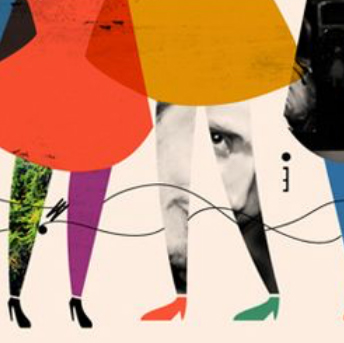
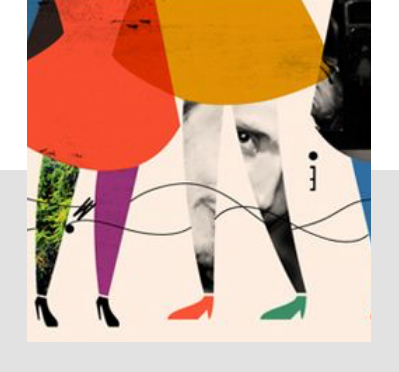
ling post images with shadow and directions fixed;

diff --git a/linguistic_serv-2.html b/linguistic_serv-2.html
@@ -68,69 +68,77 @@
 				<article class="post">
 					<header class="major">
 						<div class="slogan ling-slogan">
-							<h1><span style="font-weight:bold;display:inline-block;">&ldquo;</span>Simplicity is the ultimate<br />
-							Sophistication <span style="font-weight:bold;">&rdquo;</span></h1>
+							<h1>
+								<span style="font-weight:bold;display:inline-block;">&ldquo;</span>Simplicity is the ultimate<br/>
+								Sophistication
+								<span style="font-weight:bold;">&rdquo;</span>
+							</h1>
 							<p>Leonardo Da Vinci</p>
 						</div>
 						<p>Lorem ipsum dolor sit amet, consectetur adipiscing elit. Vestibulum id tortor ligula. Morbi quis augue ornare, mollis sapien ac, iaculis mi. Fusce in ligula nec est laoreet auctor sit amet quis massa. Quisque sed fermentum sapien, sit amet
-							ultrices felis. Nullam semper, metus eget lobortis dapibus, nulla nisl congue erat, at efficitur eni- m lorem eu diam. Vivamus id eros augue. Praesent auctor eget enim sit amet iaculis. Nunc sem eros, fermentum malesuada ri-sus nec, tristique
-							tincidunt felis. Cras quis dui eget massa blandit suscipit ut sed odio. Donec iaculis elit non turpis fermentum tempor. Quisque sed fermentum sapien, sit amet ultrices felis. Nullam semper, metus eget lobortis dapibus, nulla nisl congue erat, at
-							efficitur enim lorem eu diam. Vivamus id eros augue. Praesent auctor eget enim sit amet iaculis.
+							ultrices felis. Nullam semper, metus eget lobortis dapibus, nulla nisl congue erat, at efficitur eni- m lorem eu diam. Vivamus id eros augue. Praesent auctor eget enim sit amet iaculis. Nunc sem eros, fermentum .
 						</p>
+						<hr>
 					</header>
 				</article>
-				
-				<article class="flex-post">
-					<header class="major left-50">
-						 
-						<p>Lorem ipsum dolor sit amet, consectetur adipiscing elit. Vestibulum id tortor ligula. 
-Morbi quis augue ornare, mollis sapien ac, iaculis mi.  Fusce in  ligula nec est laoreet 
-auctor sit amet quis massa. Quisque sed fermentum . 
-						</p>
-					</header>
-					
-					<div class="image-right"    style="background: url(images/ling-post-sm-1.jpg) center no-repeat;background-size:cover;">
-						 
+
+				<article class="post">
+					<div class="caption-txt" style="color:#000;position:relative;margin:0 auto;">
+						<p>Interpretariato</p>
+						<div class="underscore u-black"></div>
 					</div>
-				</article>  
-				
-				<article class="flex-post">
-					<header class="major right-50">
-						 
-						<p>Lorem ipsum dolor sit amet, consectetur adipiscing elit. Vestibulum id tortor ligula. 
-Morbi quis augue ornare, mollis sapien ac, iaculis mi.  Fusce in  ligula nec est laoreet 
-auctor sit amet quis massa. Quisque sed fermentum sapien, sit amet ultrices felis.  
-Nullam  semper,  metus eget  lobortis dapibus, nulla nisl congue erat, at efficitur eni-
-m lorem eu diam. 
-						</p>
-					</header>
-					
-					<div class="image-left"    style="background: url(images/ling-post-sm-1.jpg) center no-repeat;background-size:cover;">
-						 
+
+					<div class="flex-post">
+						<header class="major right-50">
+							<p>Lorem ipsum dolor sit amet, consectetur adipiscing elit. Vestibulum id tortor ligula. Morbi quis augue ornare, mollis sapien ac, iaculis mi. Fusce in ligula nec est laoreet auctor sit amet quis massa. Quisque sed fermentum .
+							</p>
+							
+						</header>
+
+						<div class="image-right" style="background: url(images/ling-post-sm-1.png) center no-repeat;background-size:cover;"></div>
 					</div>
-				</article> 
-				
-				<article class="flex-post">
-				   <header class="major left-50">
-						
-					   <p>Lorem ipsum dolor sit amet, consectetur adipiscing elit. Vestibulum id tortor ligula. 
-Morbi quis augue ornare, mollis sapien ac, iaculis mi.  Fusce in  ligula nec est laoreet 
-auctor sit amet quis massa. Quisque sed fermentum sapien, sit amet ultrices felis.  
-Nullam  semper,  metus eget  lobortis dapibus, nulla nisl congue erat, at efficitur eni-
-m lorem eu diam. 
-					   </p>
-				   </header>
-				   
-				   <div class="image-right"    style="background: url(images/ling-post-sm-1.jpg) center no-repeat;background-size:cover;">
-						
-				   </div>
-			   </article> 
+				    <hr>
+				</article>
+
+				<article class="post">
+					<div class="caption-txt" style="color:#000;position:relative;margin:2em auto;">
+						<p>Traduzione</p>
+						<div class="underscore u-black"></div>
+					</div>
+
+					<div class="flex-post">
+						<header class="major left-50">
+							<p>Lorem ipsum dolor sit amet, consectetur adipiscing elit. Vestibulum id tortor ligula. Morbi quis augue ornare, mollis sapien ac, iaculis mi. Fusce in ligula nec est laoreet auctor sit amet quis massa. Quisque sed fermentum .
+							</p>
+						</header>
+
+						<div class="image-right" style="background: url(images/ling-post-sm-2.png) center no-repeat;background-size:cover;"></div>
+					</div>
+					    <hr>
+				</article>
+
+				<article class="post">
+					<div class="caption-txt" style="color:#000;position:relative;margin:0 auto;">
+						<p>Piattaforma Digitale</p>
+						<div class="underscore u-black"></div>
+					</div>
+
+					<div class="flex-post">
+						<header class="major right-50">
+							<p>Lorem ipsum dolor sit amet, consectetur adipiscing elit. Vestibulum id tortor ligula. Morbi quis augue ornare, mollis sapien ac, iaculis mi. Fusce in ligula nec est laoreet auctor sit amet quis massa. Quisque sed fermentum .
+							</p>
+						</header>
+
+						<div class="image-right" style="background: url(images/ling-post-sm-3.png) center no-repeat;background-size:cover;"></div>
+					</div>
+				 
+				</article>
 			</div>
- 
+
 			<!-- Copyright -->
-				<div id="copyright">
-					<ul>&copy; Roma Congressi - 2018</ul>
-				</div>
+			<div id="copyright">
+				<ul>&copy; Roma Congressi - 2018</ul>
+			</div>
 
 		</div>
 

diff --git a/assets/css/main.css b/assets/css/main.css
@@ -4554,6 +4554,7 @@ nav.menu-nav .top-nav>ul>li>a{
 
 article.post {
     margin: 3em auto;
+        max-width: 850px;
 }
 
  .post>.major{
@@ -4703,6 +4704,9 @@ article.post.featured {
 
 .major.left-50,.major.right-50 {
     width: 50%;
+}
+.major.left-50{
+    order: 1;
 }
 
 .major.left-50>p, .major.right-50>p {
